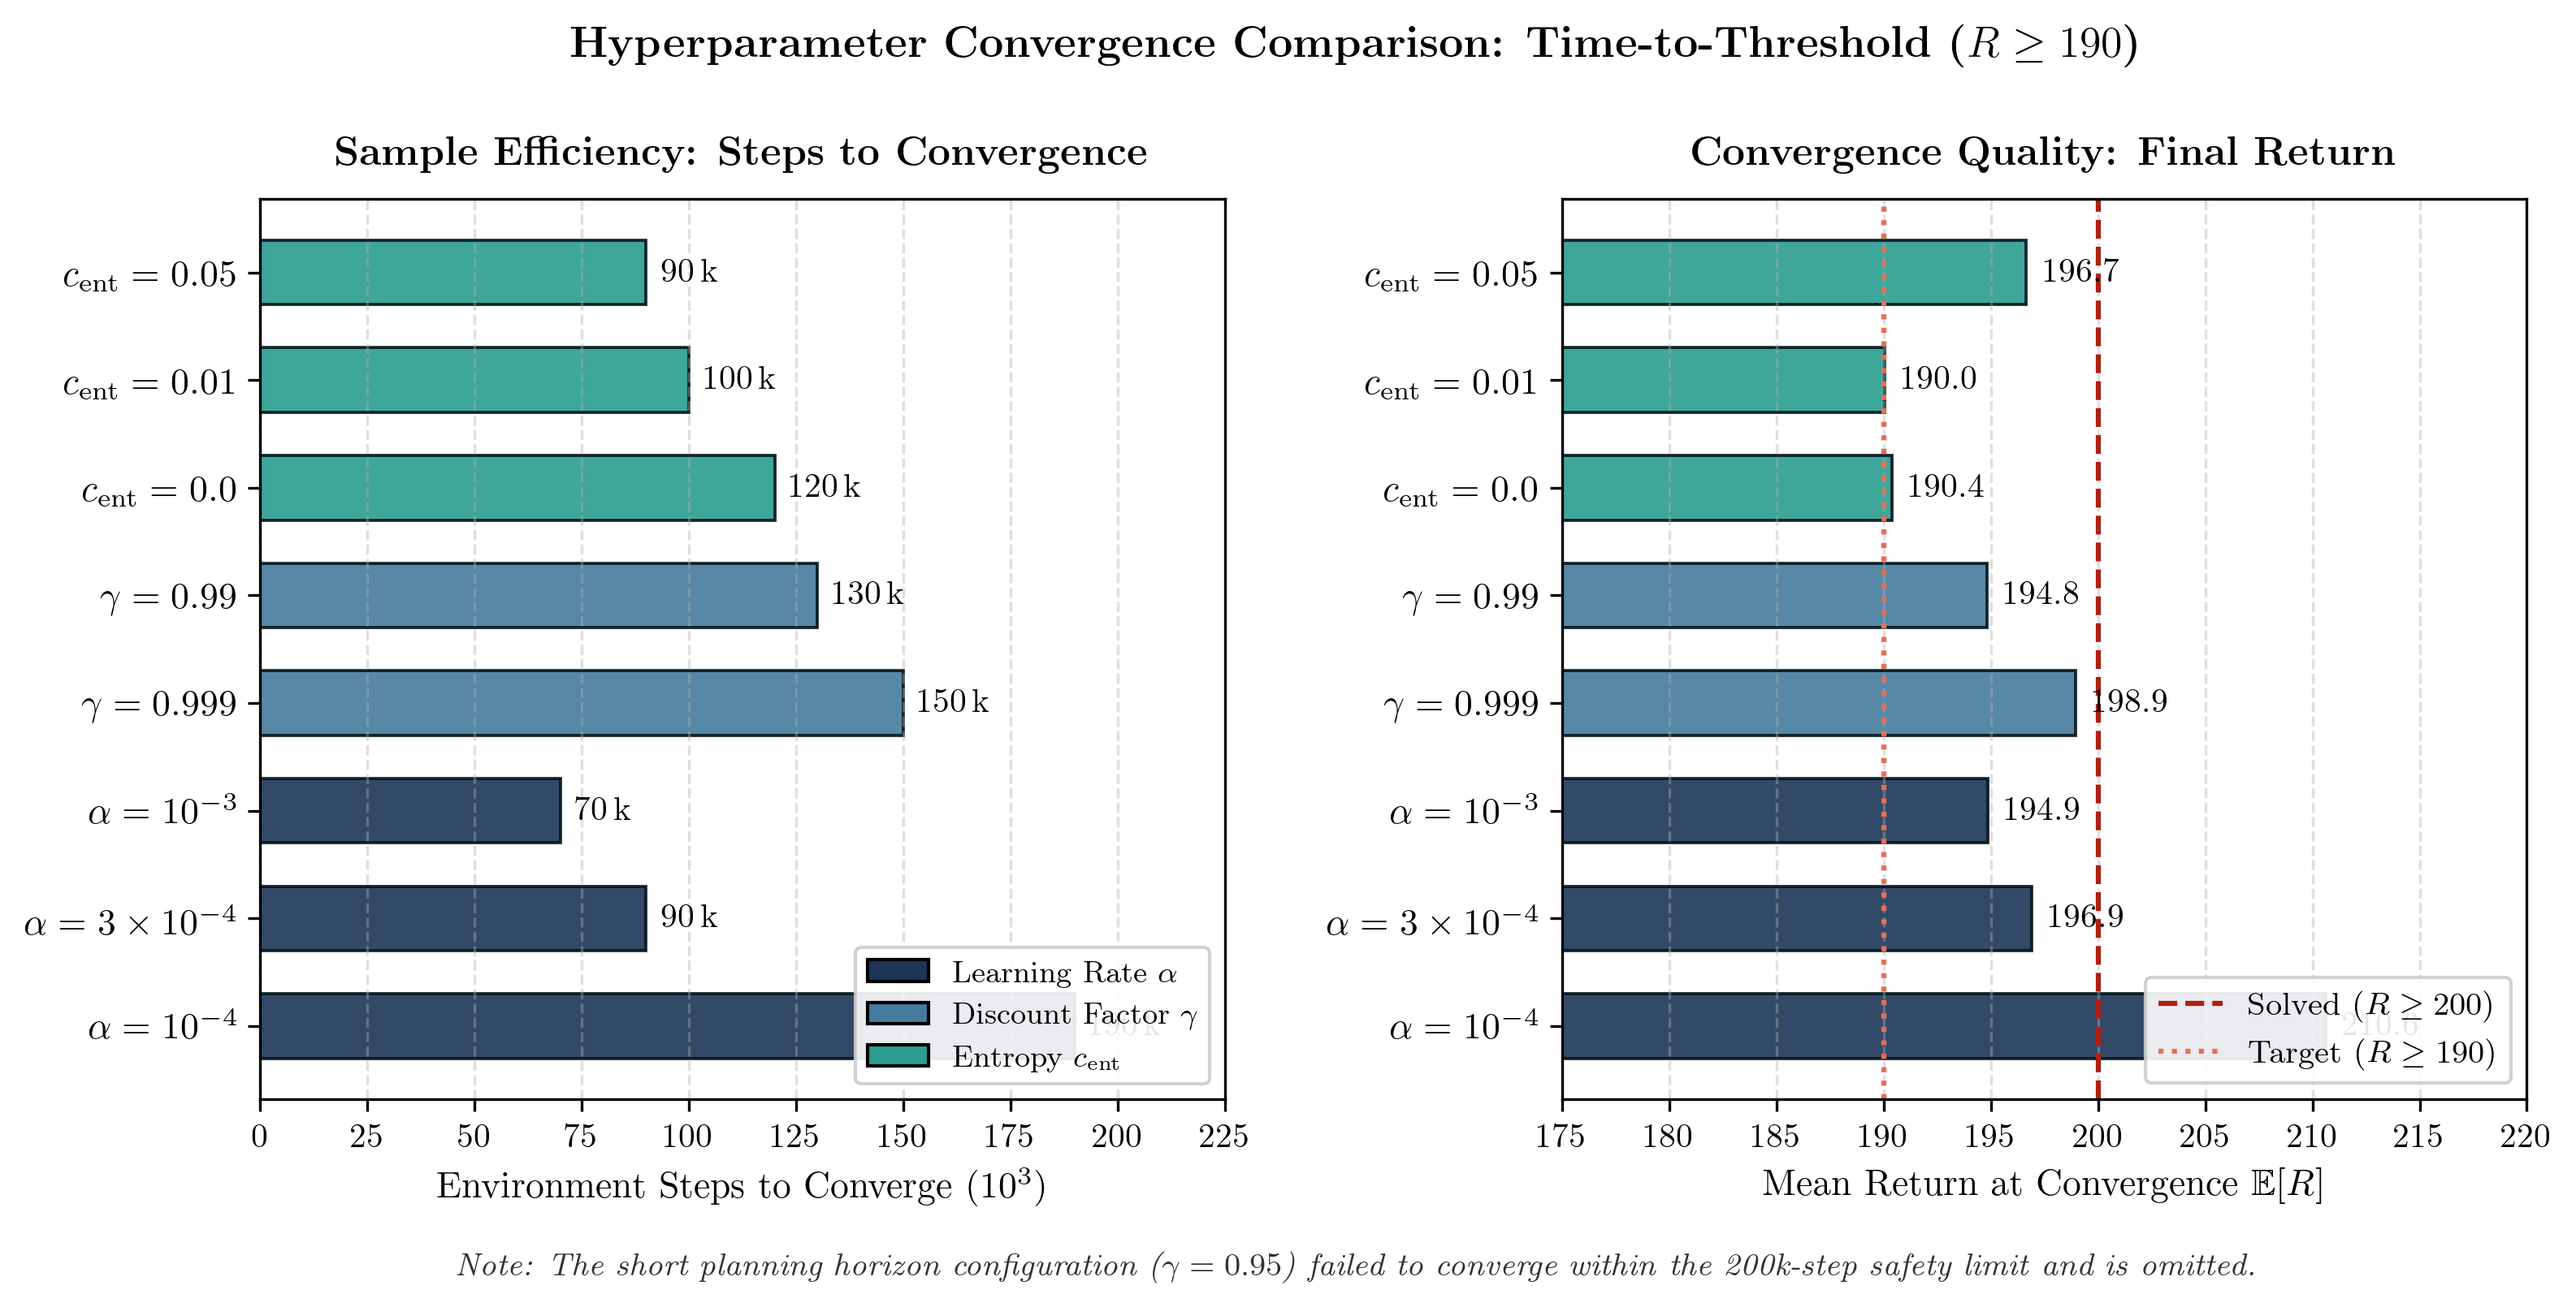
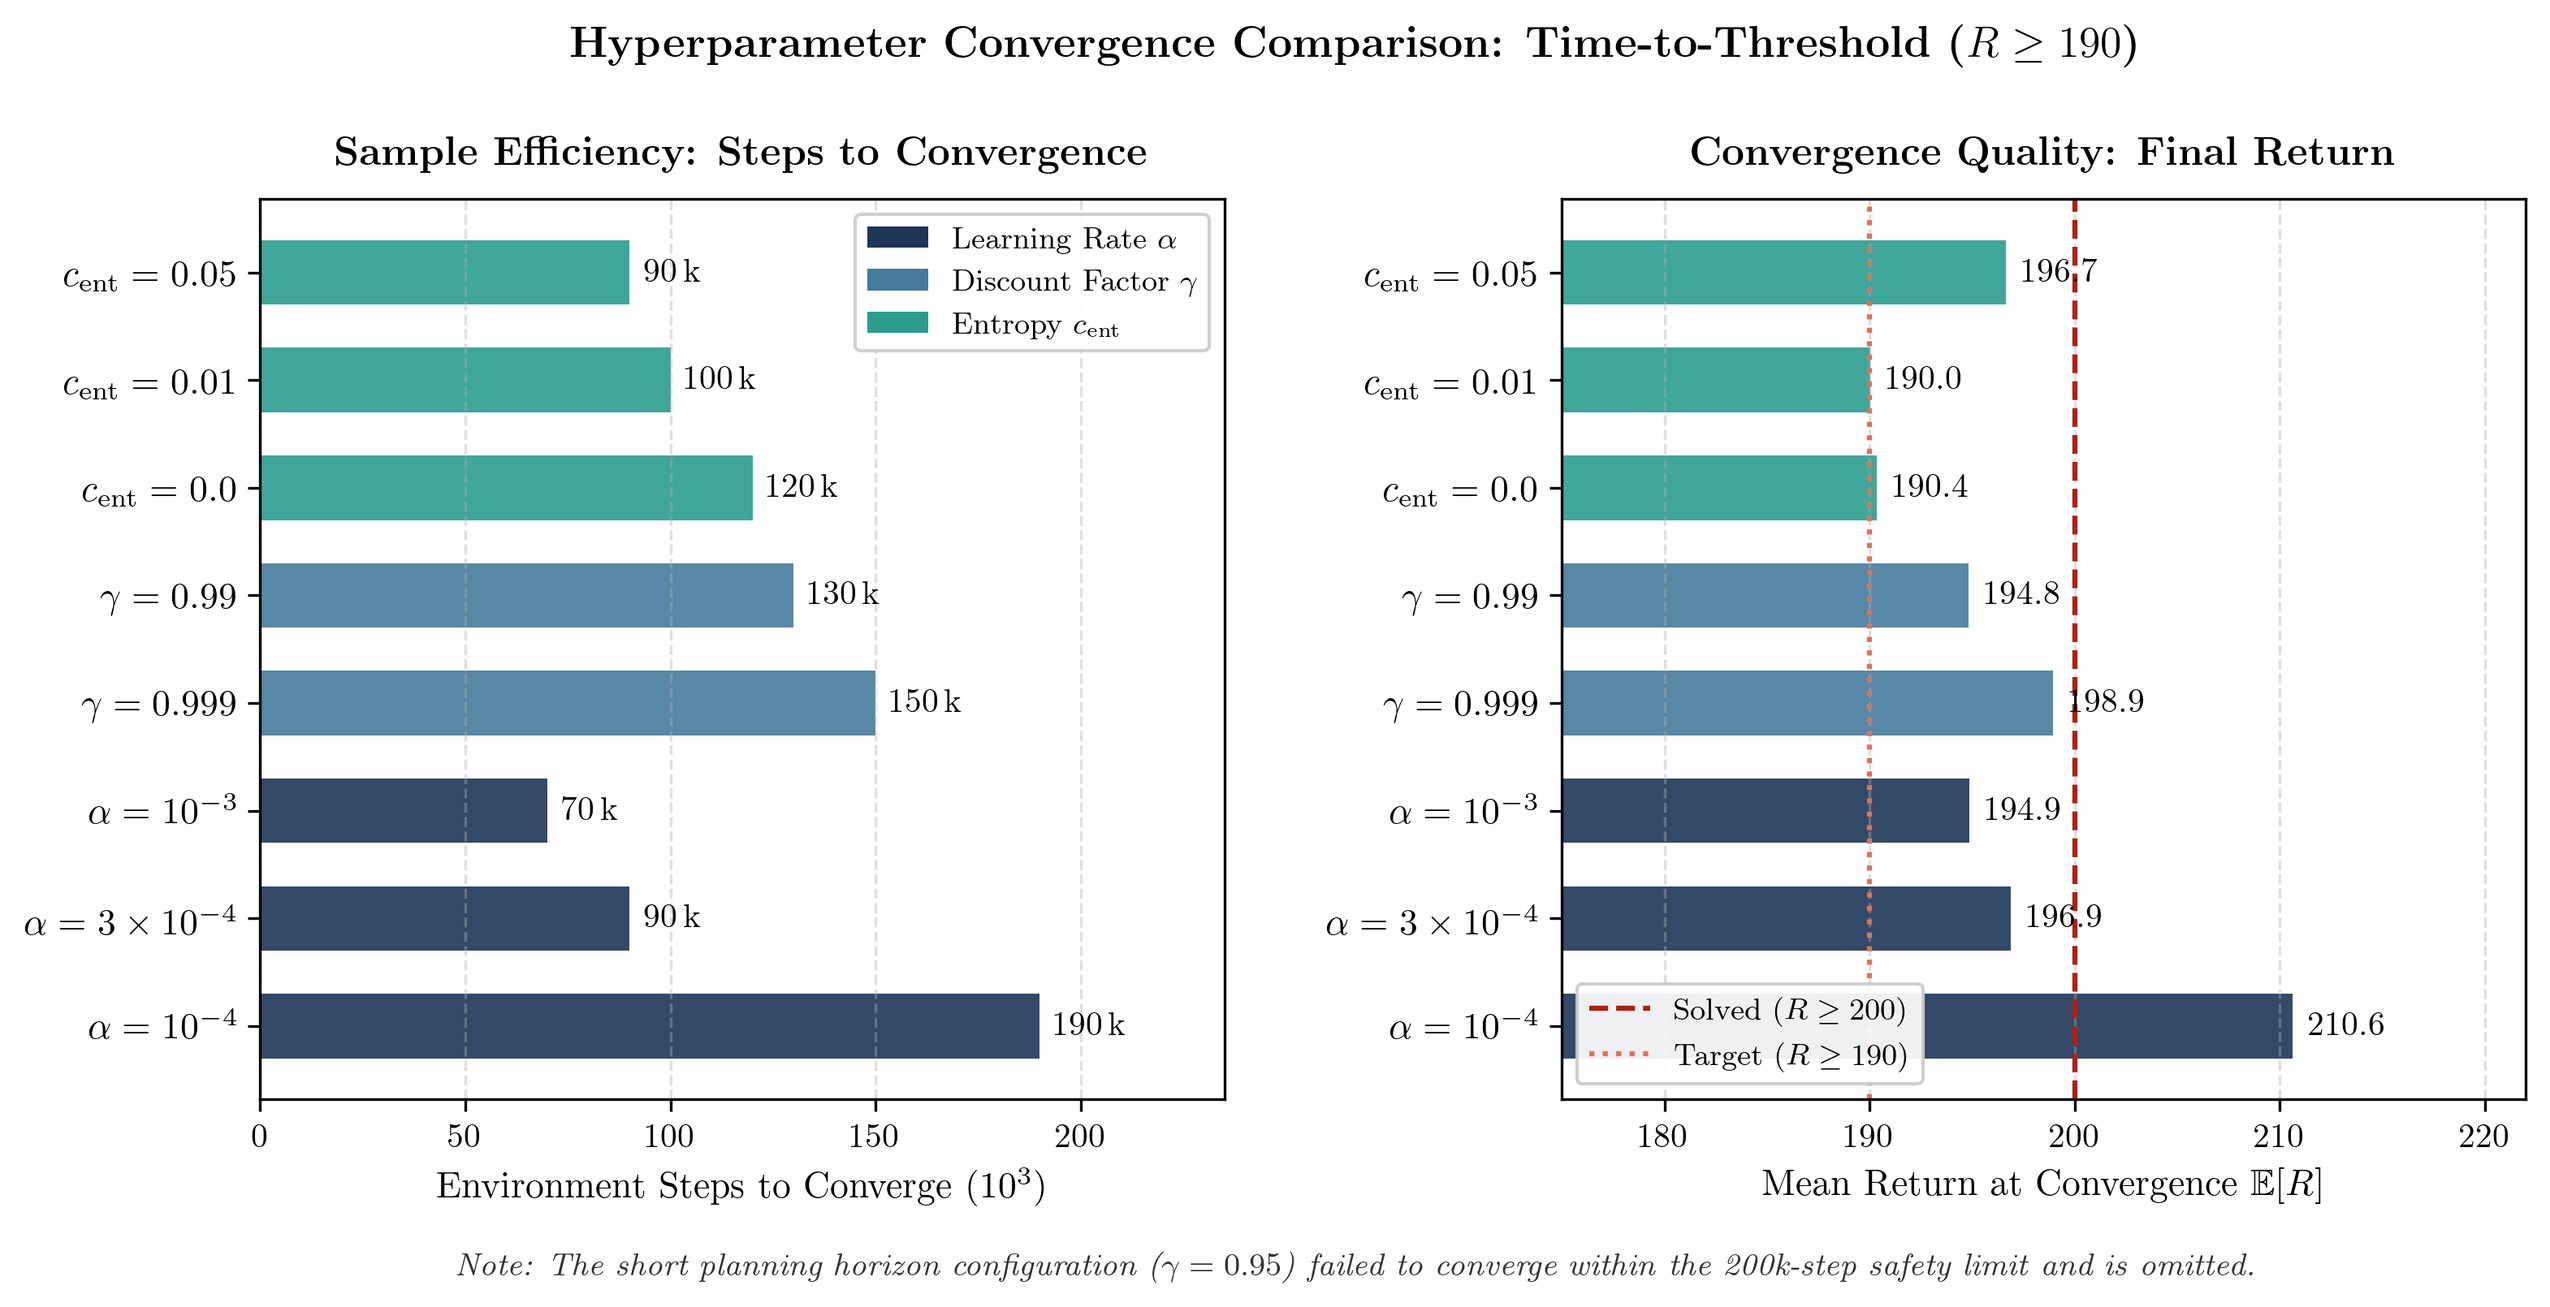
fix(plots): optimize legend placement and remove bar borders in convergence plot

diff --git a/src/plot_results.py b/src/plot_results.py
@@ -404,12 +404,12 @@ def plot_convergence_bar_chart(summary_csv: str = "results/convergence_summary_t
     # -------------------------------------------------------------
     # Panel 1: Steps to Convergence (Sample Efficiency)
     # -------------------------------------------------------------
-    bars1 = axes[0].barh(y_pos, steps_k, color=colors, edgecolor="#001219", lw=0.9, height=0.6, alpha=0.9)
+    bars1 = axes[0].barh(y_pos, steps_k, color=colors, edgecolor="none", height=0.6, alpha=0.9)
     axes[0].set_yticks(y_pos)
     axes[0].set_yticklabels(labels, fontsize=11)
     axes[0].set_xlabel(r"Environment Steps to Converge ($10^3$)", fontsize=11)
     axes[0].set_title(r"\textbf{Sample Efficiency: Steps to Convergence}", fontsize=12, pad=10)
-    axes[0].set_xlim(0, 225)
+    axes[0].set_xlim(0, 235)
     axes[0].grid(True, axis="x", linestyle="--", alpha=0.4)
 
     for bar in bars1:
@@ -424,20 +424,28 @@ def plot_convergence_bar_chart(summary_csv: str = "results/convergence_summary_t
             fontweight="medium",
         )
 
+    # Add Category Legend placed in upper right empty area
+    legend_elements = [
+        plt.Rectangle((0, 0), 1, 1, facecolor=category_colors["Learning Rate"], edgecolor="none", label=r"Learning Rate $\alpha$"),
+        plt.Rectangle((0, 0), 1, 1, facecolor=category_colors["Discount Factor"], edgecolor="none", label=r"Discount Factor $\gamma$"),
+        plt.Rectangle((0, 0), 1, 1, facecolor=category_colors["Exploration-Exploitation (Entropy)"], edgecolor="none", label=r"Entropy $c_{\text{ent}}$"),
+    ]
+    axes[0].legend(handles=legend_elements, loc="upper right", framealpha=0.92, fontsize=9.0)
+
     # -------------------------------------------------------------
     # Panel 2: Final Return Achieved at Stopping
     # -------------------------------------------------------------
-    bars2 = axes[1].barh(y_pos, returns, color=colors, edgecolor="#001219", lw=0.9, height=0.6, alpha=0.9)
+    bars2 = axes[1].barh(y_pos, returns, color=colors, edgecolor="none", height=0.6, alpha=0.9)
     axes[1].set_yticks(y_pos)
     axes[1].set_yticklabels(labels, fontsize=11)
     axes[1].set_xlabel(r"Mean Return at Convergence $\mathbb{E}[R]$", fontsize=11)
     axes[1].set_title(r"\textbf{Convergence Quality: Final Return}", fontsize=12, pad=10)
-    axes[1].set_xlim(175, 220)
+    axes[1].set_xlim(175, 222)
     axes[1].grid(True, axis="x", linestyle="--", alpha=0.4)
 
     axes[1].axvline(x=200, color="#AE2012", linestyle="--", lw=1.5, label=r"Solved ($R \geq 200$)")
     axes[1].axvline(x=190, color="#E76F51", linestyle=":", lw=1.5, label=r"Target ($R \geq 190$)")
-    axes[1].legend(loc="lower right", framealpha=0.9, fontsize=9.5)
+    axes[1].legend(loc="lower left", framealpha=0.92, fontsize=9.0)
 
     for bar in bars2:
         w = bar.get_width()
@@ -450,14 +458,6 @@ def plot_convergence_bar_chart(summary_csv: str = "results/convergence_summary_t
             fontsize=10,
             fontweight="medium",
         )
-
-    # Add Category Legend / Annotations
-    legend_elements = [
-        plt.Rectangle((0, 0), 1, 1, facecolor=category_colors["Learning Rate"], edgecolor="black", label=r"Learning Rate $\alpha$"),
-        plt.Rectangle((0, 0), 1, 1, facecolor=category_colors["Discount Factor"], edgecolor="black", label=r"Discount Factor $\gamma$"),
-        plt.Rectangle((0, 0), 1, 1, facecolor=category_colors["Exploration-Exploitation (Entropy)"], edgecolor="black", label=r"Entropy $c_{\text{ent}}$"),
-    ]
-    axes[0].legend(handles=legend_elements, loc="lower right", framealpha=0.9, fontsize=9)
 
     plt.suptitle(
         r"\textbf{Hyperparameter Convergence Comparison: Time-to-Threshold ($R \geq 190$)}",
